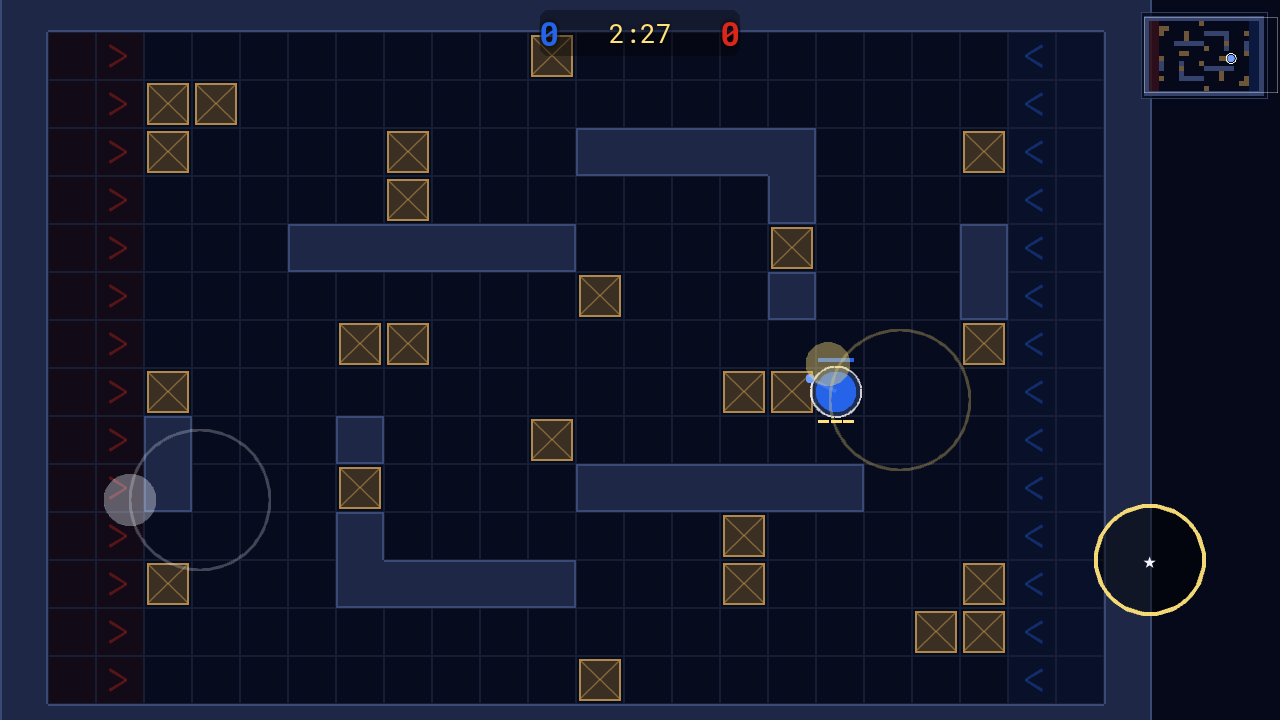
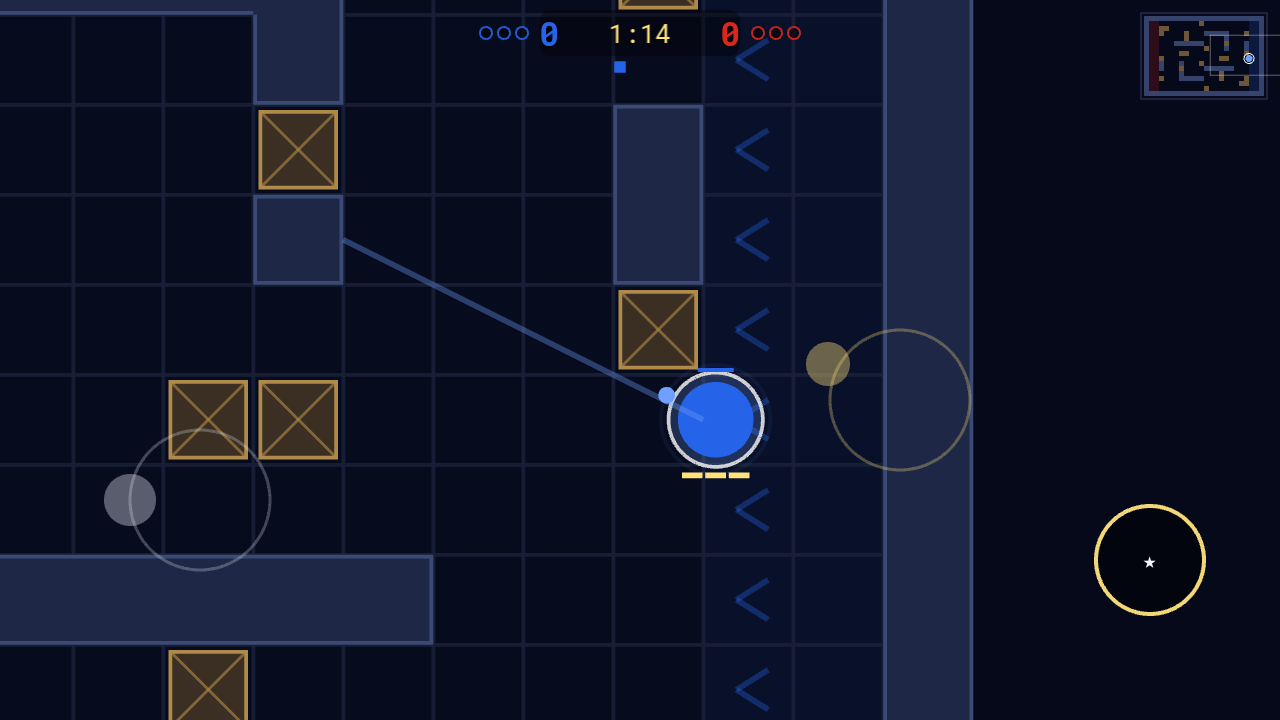
sw.js: VERSION hexarena-v2 så installerede PWA'er henter lobby/spectate

diff --git a/sw.js b/sw.js
@@ -1,6 +1,6 @@
 // HexArena service worker. Netværk først (så nye commits altid slår igennem), cache som offline-fallback.
 // Bump VERSION ved udgivelse for at rydde gamle caches.
-const VERSION = 'hexarena-v1';
+const VERSION = 'hexarena-v2';
 const SHELL = ['./', 'index.html', 'manifest.webmanifest', 'vendor/phaser.min.js',
   'render/game.js', 'render/hud.js', 'render/inputSystem.js',
   'sim/world.js', 'sim/grid.js', 'sim/ai.js', 'net/transport.js', 'net/codec.js', 'net/session.js', 'vendor/peerjs.min.js',
